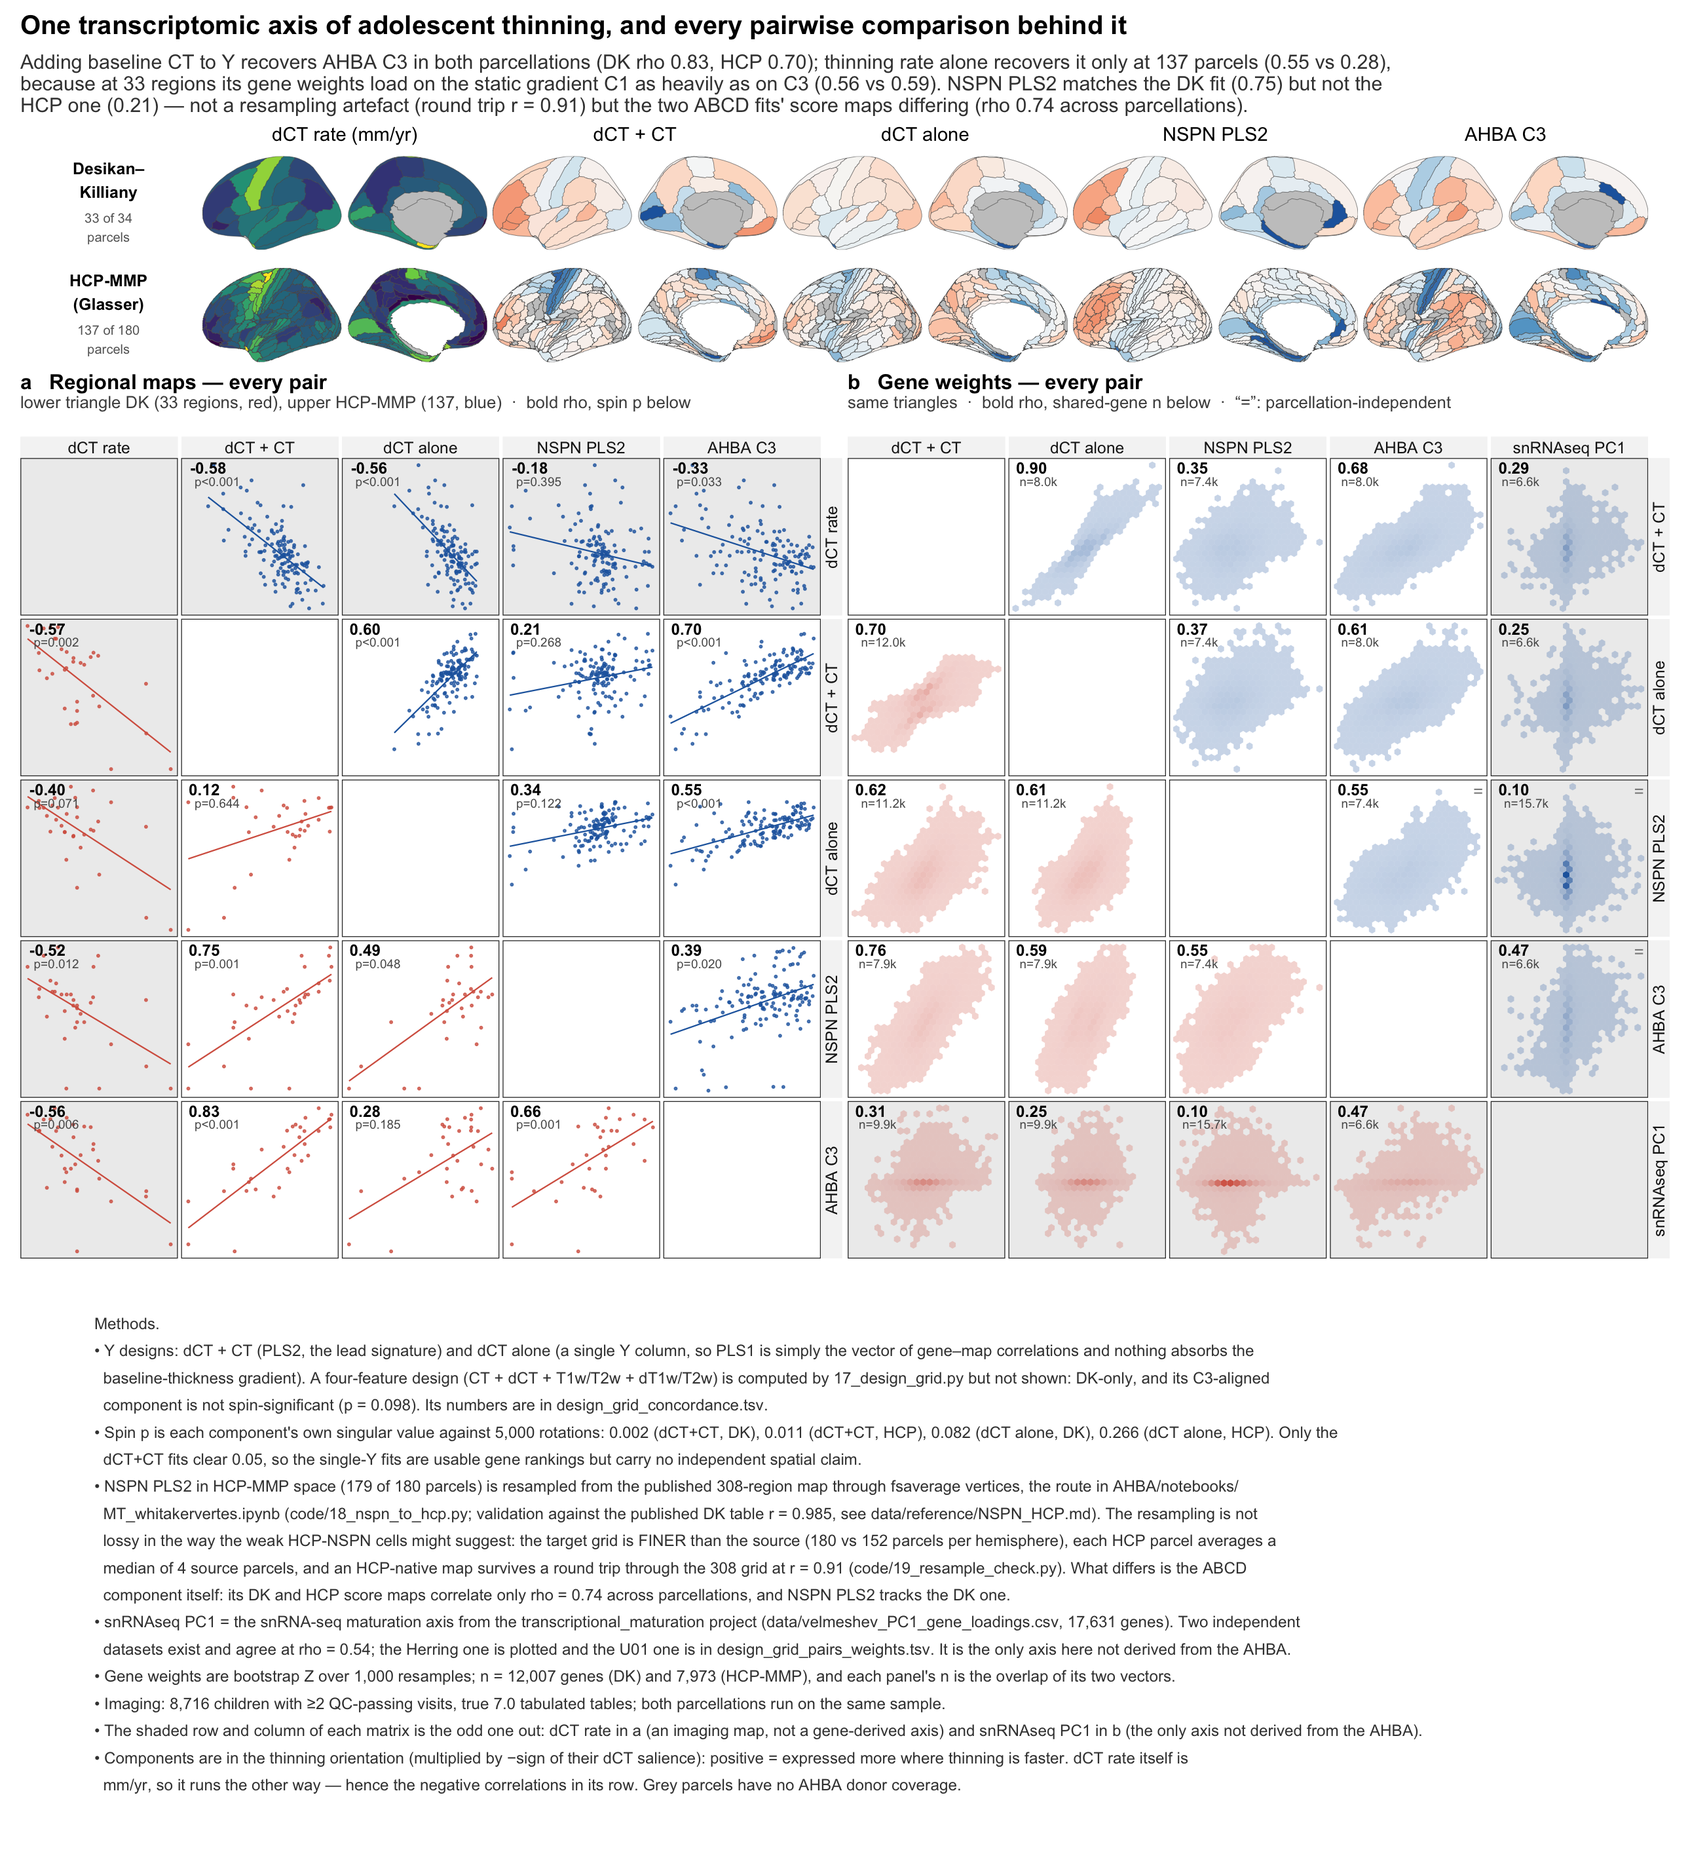
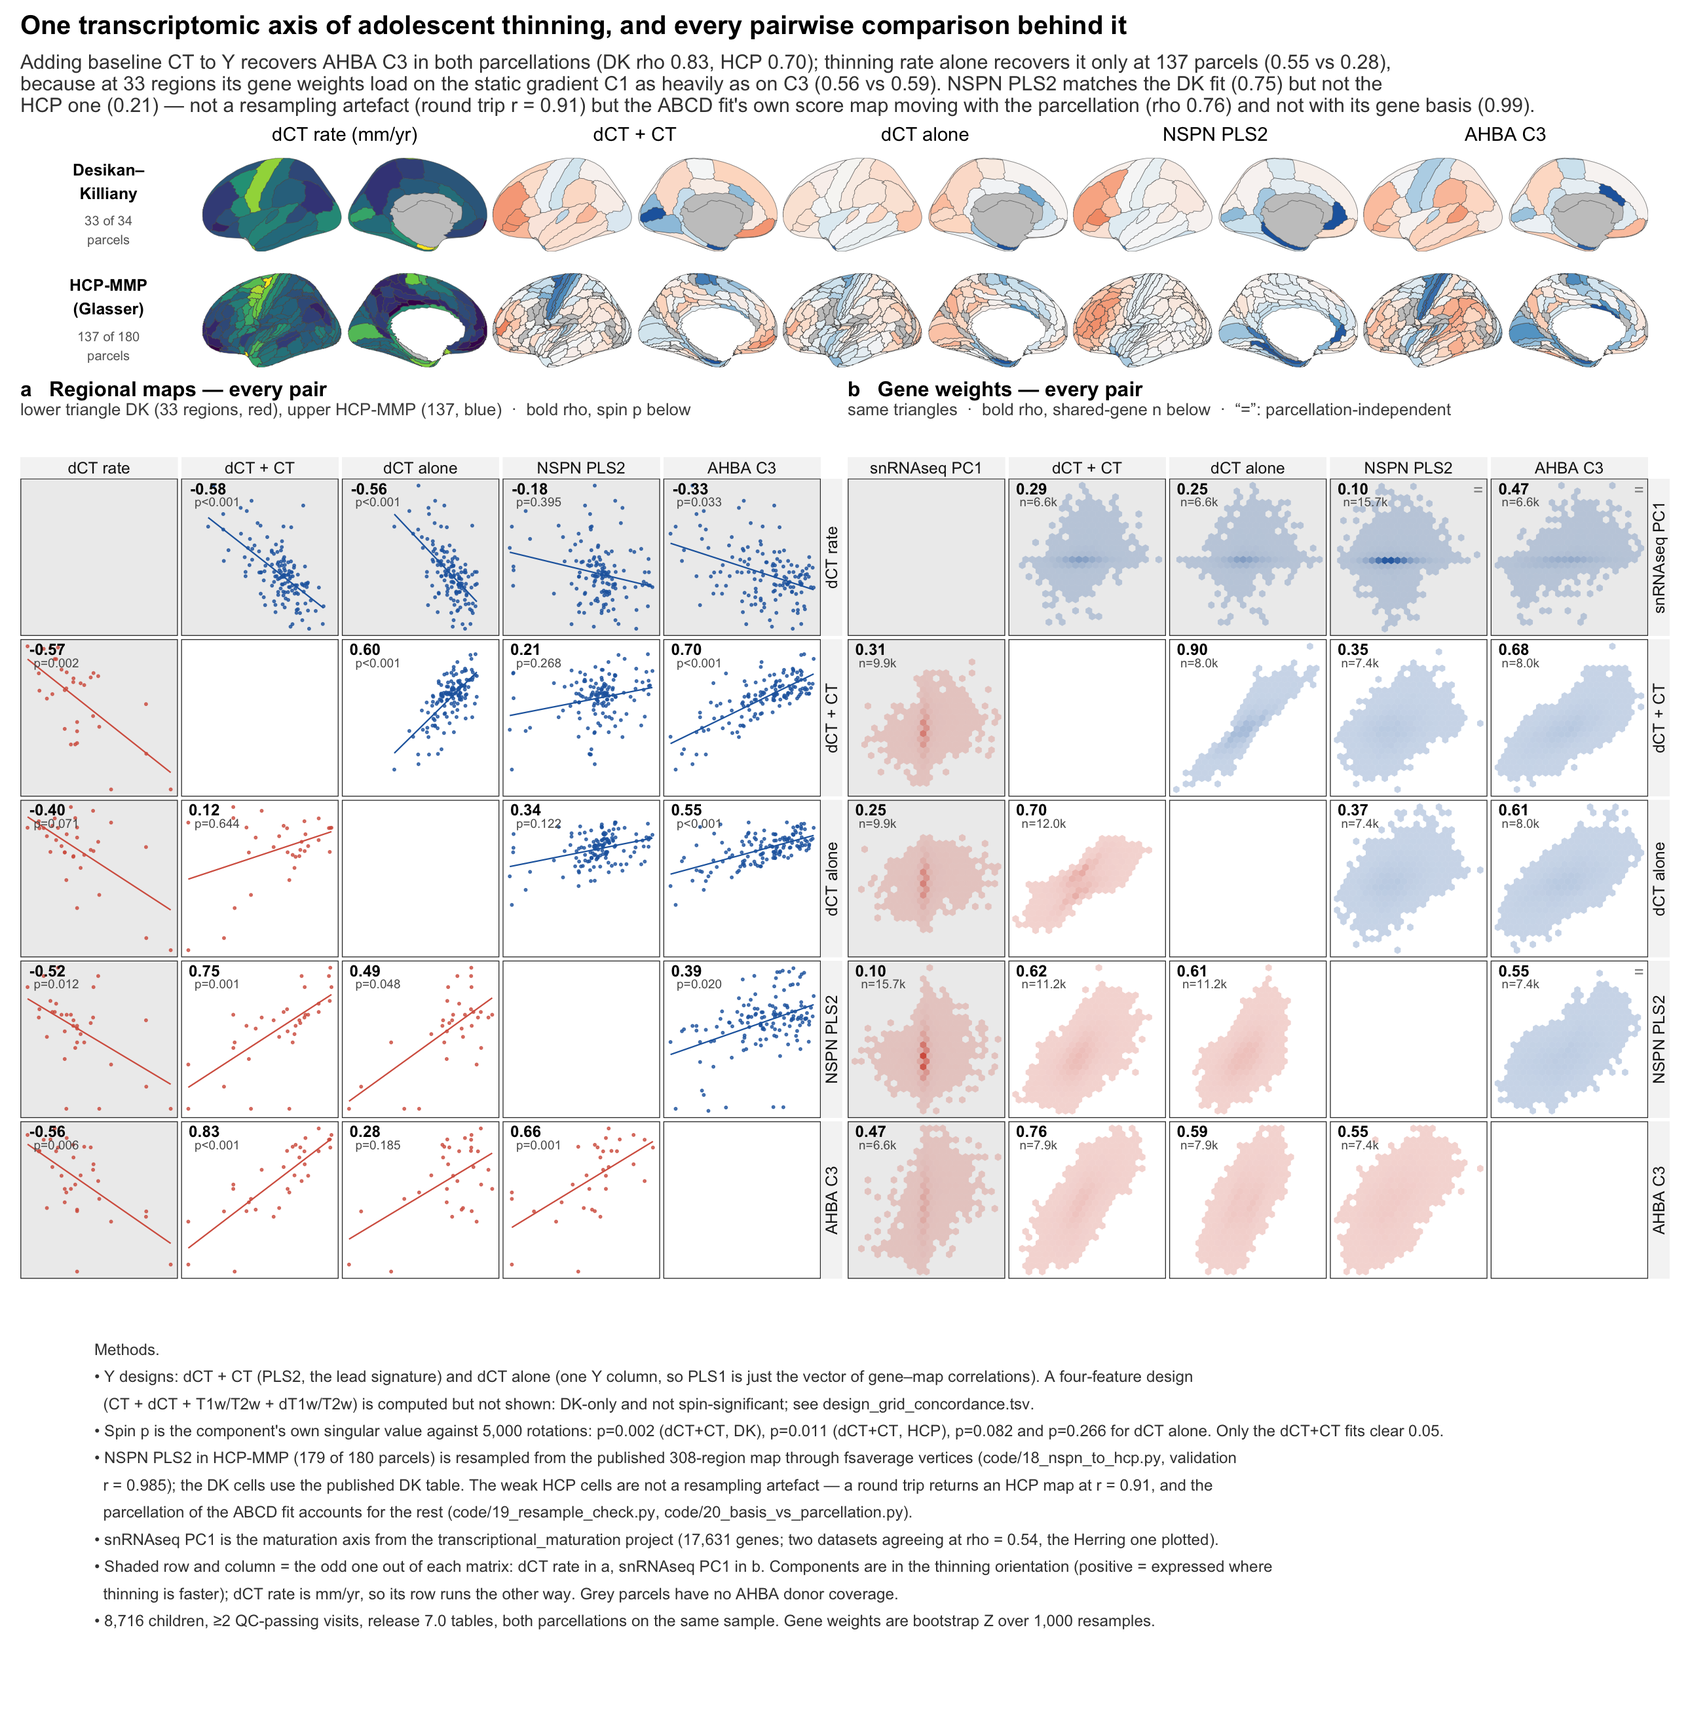
ahba_pls: the 0.74 cross-parcellation gap is the parcellation, not the expression basis -- my hypothesis tested and rejected
20_basis_vs_parcellation.py adds a third fit to separate the two ways the DK and
HCP-MMP fits differ: the same option-2 PLS on the same 33 DK regions but with the
HCP fit's expression basis (dk_3d.csv on the shipped 7,973 genes -- the matched X
of 12_hcp_pls.py, refitted here so its SCORES exist and not only its weights).

  native DK vs matched DK   (basis only)         scores rho 0.986, weights 0.975
  matched DK vs HCP->DK     (parcellation only)  scores rho 0.763, weights 0.749
  native DK vs HCP->DK      (both)               scores rho 0.737, weights 0.733

So the abagen build and gene list account for essentially none of the gap, and
the parcellation for all of it -- fitting at 137 parcels finds a somewhat
different spatial axis rather than a differently-processed version of the same
one. Same verdict for the NSPN comparison: the matched-basis component agrees
with NSPN PLS2 at 0.76, indistinguishable from the native DK fit's 0.75, while
the HCP fit pushed to DK gives 0.47.

Two things the test also exposed, both now in the README:
- WHICH NSPN DK map is used matters at n=33. The published DK table and the
  308-map resampled to DK agree at r=0.985, yet against the same component give
  rho 0.75 vs 0.61. The figure uses the published table for DK cells and the
  resampled map for HCP cells, so part of its 0.75 -> 0.21 asymmetry is that
  version difference; both are now reported.
- Pushing the HCP map down to DK recovers 0.47 of the NSPN agreement against
[…]

diff --git a/ahba_pls/code/20_basis_vs_parcellation.py b/ahba_pls/code/20_basis_vs_parcellation.py
@@ -1,0 +1,142 @@
+"""
+20_basis_vs_parcellation.py -- the ABCD dCT+CT component's score map correlates
+only rho = 0.74 between its DK and HCP-MMP fits (19_resample_check.py), while
+its gene weights agree at 0.90.  Which of the two differences between those fits
+does that?
+
+  * EXPRESSION BASIS -- the DK fit uses the AHBA_updated native-DK matrices
+    (ds25, 12,007 genes); the HCP fit uses abagen-data hcp_3d.csv on the 7,973
+    genes of the shipped C1-C3 weights.  Different build, different gene list.
+  * PARCELLATION -- 33 DK regions against 137 HCP-MMP parcels.
+
+The design separates them with a third fit: the same option-2 PLS (Y = dCT + CT)
+on the same 33 DK regions but with the HCP fit's expression basis
+(dk_3d.csv restricted to those 7,973 genes -- the "matched" X of 12_hcp_pls.py,
+refitted here so its SCORES are available and not only its gene weights).
+
+  native DK  vs  matched DK   -> basis effect, parcellation held fixed
+  matched DK vs  HCP -> DK    -> parcellation effect, basis held fixed
+  native DK  vs  HCP -> DK    -> the 0.74 being decomposed
+
+The HCP score map is brought down to DK regions through fsaverage vertices
+(code/surface.py), the same route used for the NSPN maps.
+
+The second question this answers: NSPN PLS2 agrees with the native DK component
+at rho = 0.75 and with the HCP one at 0.29.  Whichever of the two fits the
+matched-basis component resembles tells us whether that gap is about the genes
+or about the atlas.
+
+Outputs
+  results/basis_vs_parcellation.tsv   the decomposition
+  results/basis_matched_dk_scores.csv the third fit's region scores and weights
+"""
+from __future__ import annotations
+import sys
+from pathlib import Path
+import numpy as np, pandas as pd
+from scipy import stats
+
+HERE = Path(__file__).resolve().parent
+sys.path.insert(0, str(HERE))
+import pls, surface                                      # noqa: E402
+
+ROOT = HERE.parent
+REPO = ROOT.parent
+RES, DATA, REF = ROOT / "results", ROOT / "data", ROOT / "data" / "reference"
+EXPR = Path.home() / "Git" / "AHBA" / "data" / "abagen-data" / "expression"
+N_BOOT, N_SPIN, SEED = 1000, 5000, 0
+
+# ---------------------------------------------------- the matched-basis fit ---
+# id -> label mapping and validation are as in 12_hcp_pls.py.
+FS_DK = ["bankssts", "caudalanteriorcingulate", "caudalmiddlefrontal", "cuneus", "entorhinal",
+         "fusiform", "inferiorparietal", "inferiortemporal", "isthmuscingulate", "lateraloccipital",
+         "lateralorbitofrontal", "lingual", "medialorbitofrontal", "middletemporal",
+         "parahippocampal", "paracentral", "parsopercularis", "parsorbitalis", "parstriangularis",
+         "pericalcarine", "postcentral", "posteriorcingulate", "precentral", "precuneus",
+         "rostralanteriorcingulate", "rostralmiddlefrontal", "superiorfrontal", "superiorparietal",
+         "superiortemporal", "supramarginal", "frontalpole", "temporalpole", "transversetemporal",
+         "insula"]
+genes = pd.read_csv(REPO / "data" / "weights.csv", index_col=0).index
+Xd = pd.read_csv(EXPR / "dk_3d.csv", index_col=0)[genes]
+Xd.index = ["lh_" + FS_DK[i - 1] for i in Xd.index]
+_ship = pd.read_csv(REPO / "data" / "ahba_dme_dsk_scores.csv").set_index("label")
+_Xz = pls.zscore_cols(Xd.to_numpy(float)); _Xz -= _Xz.mean(0, keepdims=True)
+_, _, _Vt = np.linalg.svd(_Xz, full_matrices=False)
+_pc1 = pd.Series(_Xz @ _Vt[0], index=Xd.index)
+_sh = Xd.index.intersection(_ship.index)
+assert abs(stats.spearmanr(_pc1.loc[_sh], _ship.loc[_sh, "C1"]).statistic) > 0.95, \
+    "DK id -> label mapping looks wrong"
+
+Y = pd.read_csv(DATA / "y_maps_bilateral_34.csv", index_col=0)[["dCT", "CT"]].loc[Xd.index]
+fit = pls.pls_svd(Xd, Y)
+bt = pls.bootstrap_weights(Xd, Y, n_boot=N_BOOT, seed=SEED)
+# thinning orientation, the convention everywhere in this directory
+sign = -np.sign(fit.saliences().loc["dCT", "PLS2"])
+S_matched = sign * fit.scores()["PLS2_gene_scores"]
+W_matched = sign * bt["Z"]["PLS2"]
+pd.DataFrame({"score": S_matched}).rename_axis("label").to_csv(
+    RES / "basis_matched_dk_scores.csv", float_format="%.6g")
+
+# ------------------------------------------------------------- the three maps -
+SP = pd.read_csv(RES / "design_grid_points_scores.csv")
+get = lambda parc, var: (SP[(SP.parcellation == parc) & (SP.variable == var)]
+                         .set_index("label").value)
+S_native = get("DK", "dCT + CT")
+S_hcp = get("HCP", "dCT + CT").rename(lambda s: s.replace("lh_", ""))
+S_hcp2dk = surface.resample(S_hcp, "lh.HCPMMP1.annot", "lh.aparc.annot").rename(lambda s: "lh_" + s)
+nspn = pd.read_csv(REF / "nspn_dk_maps_bilateral_34.csv", index_col=0)["PLS2"]
+c3 = pd.read_csv(REF / "ahba_c123_scores_recomputed_ds25.csv", index_col=0)["C3"]
+
+# Two DK versions of the NSPN map exist and they are not interchangeable at
+# n = 33: the published DK-level table, and the 308-region map resampled to DK
+# (they agree at r = 0.985 but that still leaves room for rho to move by ~0.2 on
+# 33 points). Both are reported rather than picking one.
+_t = pd.read_csv(Path.home() / "Git" / "AHBA" / "data" / "whitakervertes2016_complete_308.csv",
+                 index_col=0)
+_t["PLS2"] = _t["PLS2"].replace(-99, np.nan)
+_lh = _t[_t.hemi == "l"].copy()
+_lh["key"] = _lh.region + "_part" + _lh.n_sub_regions.astype(int).astype(str)
+nspn_rs = surface.resample(_lh.set_index("key")["PLS2"], "lh.500.aparc.annot", "lh.aparc.annot",
+                           src_key=lambda n: n).rename(lambda s: "lh_" + s)
+
+# every comparison is restricted to the 33 regions the ABCD DK fits use, so the
+# rows are comparable (the HCP-derived map otherwise contributes a 34th region,
+# frontalpole, which has no AHBA donor coverage in the DK fits)
+REGIONS = S_native.dropna().index
+maps = {"native DK (AHBA_updated ds25)": S_native,
+        "matched DK (abagen-data, HCP gene basis)": S_matched,
+        "HCP-MMP pushed to DK": S_hcp2dk.reindex(REGIONS)}
+
+rows = []
+def cmp_(a: str, b: str, x: pd.Series, y: pd.Series, what: str, spin: bool = True):
+    sh = x.dropna().index.intersection(y.dropna().index)
+    rho = stats.spearmanr(x.loc[sh], y.loc[sh]).statistic
+    p = np.nan
+    if spin:
+        _, p, _ = pls.spin_corr(x.loc[sh], y.loc[sh], n_perm=N_SPIN, seed=SEED,
+                                centroids=pls.DK_CENTROIDS)
+    rows.append(dict(comparison=what, a=a, b=b, rho=rho, p_spin=p, n=len(sh)))
+
+names = list(maps)
+cmp_(names[0], names[1], maps[names[0]], maps[names[1]], "basis effect (parcellation fixed)")
+cmp_(names[1], names[2], maps[names[1]], maps[names[2]], "parcellation effect (basis fixed)")
+cmp_(names[0], names[2], maps[names[0]], maps[names[2]], "total (the 0.74 being decomposed)")
+for nm, s_ in maps.items():
+    cmp_(nm, "NSPN PLS2 (published DK table)", s_, nspn, "vs NSPN PLS2")
+    cmp_(nm, "NSPN PLS2 (308 resampled to DK)", s_, nspn_rs, "vs NSPN PLS2")
+    cmp_(nm, "AHBA C3 (DK, ds25)", s_, c3, "vs AHBA C3")
+
+# gene weights, for the same three fits
+W_native = pd.read_csv(RES / "lead_signature_weights.tsv", sep="\t", index_col=0)["thinning_Z_ds25"]
+W_hcp = -pd.read_csv(RES / "hcp_pls_weights.tsv", sep="\t", index_col=0)["hcp_opt2_dCT_CT_PLS2_Z"]
+for a, b, x, y in [(names[0], names[1], W_native, W_matched),
+                   (names[1], names[2], W_matched, W_hcp),
+                   (names[0], names[2], W_native, W_hcp)]:
+    cmp_(a, b, x, y, "gene weights", spin=False)
+
+T = pd.DataFrame(rows)
+T.to_csv(RES / "basis_vs_parcellation.tsv", sep="\t", index=False, float_format="%.4g")
+pd.set_option("display.width", 200, "display.max_colwidth", 44)
+print(T.round(4).to_string(index=False))
+print("\nmatched-basis fit: PLS2 covariance explained "
+      f"{fit.cov_explained[1]:.3f}, dCT salience {fit.saliences().loc['dCT', 'PLS2']:+.3f}")

diff --git a/ahba_pls/code/surface.py b/ahba_pls/code/surface.py
@@ -1,0 +1,70 @@
+"""
+surface.py -- fsaverage annot helpers shared by 18_nspn_to_hcp.py,
+19_resample_check.py and 20_basis_vs_parcellation.py.
+
+Everything here is parcels <-> vertices on the fsaverage (164k) mesh, reading
+the annot files in ~/Git/AHBA/data/parcellations/.
+
+One trap this module exists to contain: the annot files do NOT name parcels
+consistently. `lh.aparc.annot` calls a parcel `lh_bankssts` while
+`rh.aparc.annot` calls the same parcel `bankssts`, and HCPMMP1 uses
+`L_V1_ROI` / `R_V1_ROI`. Matching or grouping on the raw name silently splits
+the hemispheres and lets `lh_unknown` through a background filter, so every
+name goes through `strip_hemi` first.
+"""
+from __future__ import annotations
+import re
+from pathlib import Path
+import numpy as np, pandas as pd
+import nibabel as nib
+
+PARC = Path.home() / "Git" / "AHBA" / "data" / "parcellations"
+BACKGROUND = ("unknown", "???", "corpuscallosum", "Background")
+
+
+def strip_hemi(name: str) -> str:
+    """Drop a hemisphere prefix and the HCP `_ROI` suffix from an annot label."""
+    return re.sub(r"_ROI$", "", re.sub(r"^(lh_|rh_|L_|R_)", "", name))
+
+
+def is_bg(name: str) -> bool:
+    return strip_hemi(name).startswith(BACKGROUND)
+
+
+def annot(name: str) -> tuple[np.ndarray, list[str]]:
+    """(per-vertex label ids, label names) for an annot file in PARC."""
+    lab, _, names = nib.freesurfer.read_annot(str(PARC / name))
+    return lab, [n.decode() if isinstance(n, bytes) else n for n in names]
+
+
+def paint(values: pd.Series, lab: np.ndarray, names: list[str], key=strip_hemi) -> np.ndarray:
+    """Parcel values -> per-vertex values (NaN where the parcel has no value)."""
+    out = np.full(lab.shape, np.nan)
+    for i, n in enumerate(names):
+        if is_bg(n):
+            continue
+        k = key(n)
+        if k in values.index and np.isfinite(values[k]):
+            out[lab == i] = values[k]
+    return out
+
+
+def collect(vert: np.ndarray, lab: np.ndarray, names: list[str], key=strip_hemi) -> pd.Series:
+    """Per-vertex values -> parcel means (parcels with no finite vertex dropped)."""
+    out = {}
+    for i, n in enumerate(names):
+        if is_bg(n):
+            continue
+        v = vert[lab == i]
+        if np.isfinite(v).any():
+            out[key(n)] = float(np.nanmean(v))
+    return pd.Series(out)
+
+
+def resample(values: pd.Series, src: str, dst: str,
+             src_key=strip_hemi, dst_key=strip_hemi) -> pd.Series:
+    """Parcel values from one annot to another, via the shared vertex mesh."""
+    ls, ns = annot(src)
+    ld, nd = annot(dst)
+    assert ls.shape == ld.shape, "annots must share the fsaverage mesh"
+    return collect(paint(values, ls, ns, src_key), ld, nd, dst_key)

diff --git a/ahba_pls/README.md b/ahba_pls/README.md
@@ -453,6 +453,39 @@ down to DK agrees with the NSPN DK map at only ρ = +0.29, against +0.75 for the
 So the weak HCP–NSPN cells say that the HCP fit is a somewhat different spatial axis — a fact about
 the two ABCD fits rather than about the NSPN reference or the conversion.
 
+### Basis or parcellation? The 0.74 decomposed — `code/20_basis_vs_parcellation.py`
+
+The section above leaves one question: the dCT+CT component's score map correlates only ρ = 0.74
+between its DK and HCP-MMP fits while its gene weights agree at 0.90. Those two fits differ in *two*
+ways — the expression basis (AHBA_updated ds25, 12,007 genes vs abagen-data `hcp_3d.csv` on the
+shipped 7,973) and the parcellation (33 vs 137). A third fit separates them: the same option-2 PLS on
+the same 33 DK regions but with the HCP fit's expression basis (`dk_3d.csv` restricted to those
+7,973 genes — the matched X of `12_hcp_pls.py`, refitted here so its *scores* exist too).
+
+| contrast | what varies | scores ρ | gene weights ρ |
+|:--|:--|--:|--:|
+| native DK vs matched DK | expression basis only | **0.986** | 0.975 |
+| matched DK vs HCP→DK | parcellation only | **0.763** | 0.749 |
+| native DK vs HCP→DK | both | 0.737 | 0.733 |
+
+**My hypothesis was wrong: the expression basis accounts for essentially none of it.** Swapping
+abagen build and gene list while holding the parcellation fixed leaves the score map intact
+(ρ = 0.986) and the gene ranking nearly so; swapping the parcellation while holding the basis
+fixed reproduces the whole gap (0.763). The same holds for the NSPN comparison — the matched-basis
+component agrees with NSPN PLS2 at ρ = 0.76, indistinguishable from the native DK fit's 0.75,
+while the HCP fit pushed down to DK gives 0.47.
+
+So fitting the PLS at 137 parcels genuinely finds a somewhat different spatial axis, not a
+differently-processed version of the same one. Two caveats on the reading:
+
+- **Which NSPN map is used matters at n = 33.** The published DK table and the 308-map resampled to
+  DK agree at r = 0.985, but against the same component they give ρ = 0.75 and
+  0.61 respectively — a 0.15 spread from the reference version alone. The figure uses the
+  published table for DK cells and the resampled map for HCP cells, so part of its 0.75 → 0.21
+  asymmetry is that version difference; both columns are in `basis_vs_parcellation.tsv`.
+- Pushing the HCP map down to DK recovers some but not all of the agreement (0.47 at 33 regions
+  against 0.21 at 137), so the disagreement is partly, but not only, at fine spatial scale.
+
 ### snRNAseq PC1 in the gene matrix
 
 The snRNA-seq maturation axis from
@@ -615,11 +648,11 @@ sample-size effect: it is unchanged (+5.1 → +5.0) between the 6,537-child and
 
 ## Reproducing
 
-Analysis (python, env `ahba-pls`): `code/01_*` → `code/19_*` in order. `11_` is the parcellation
+Analysis (python, env `ahba-pls`): `code/01_*` → `code/20_*` in order. `11_` is the parcellation
 control, `12_` the HCP-MMP arm, `14_`/`15_` the single-universe enrichment and cell-class tables that
 the summary figures read, `16_` the dCT-only variant, `17_` the design grid and all pairwise statistics, `18_` the NSPN→HCP-MMP
 conversion (needs `nibabel`, and the fsaverage annot files in `~/Git/AHBA/data/parcellations/`; run it
-before `17_`), `19_` the resampling audit behind that conversion. `12_` needs the backfilled HCP run
+before `17_`), `19_` the resampling audit behind that conversion and `20_` the basis-vs-parcellation decomposition (both seconds; `code/surface.py` holds the shared annot helpers). `12_` needs the backfilled HCP run
 (`ABCD_CONFIG=ct_70_hcp_noglobal_mv2 python -m abcd.assemble` then
 `Rscript R/fit_lmm.R --cores 8`, which lands in `out/thickness_hcp_70_aa6e91efba82`); everything else
 reads the DK and T1w/T2w runs listed in `tools/rerun_local.sh`.
